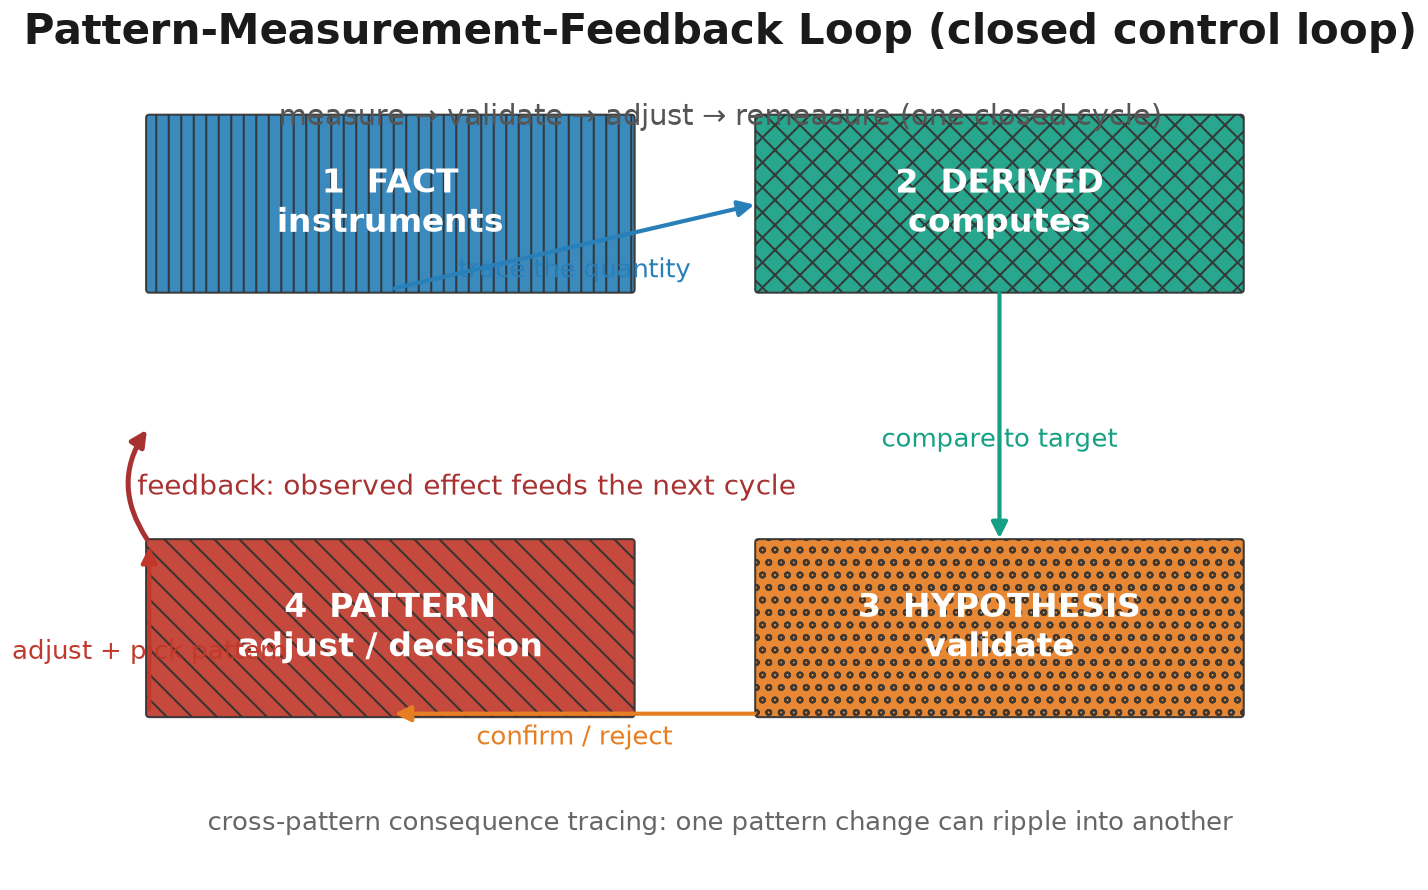
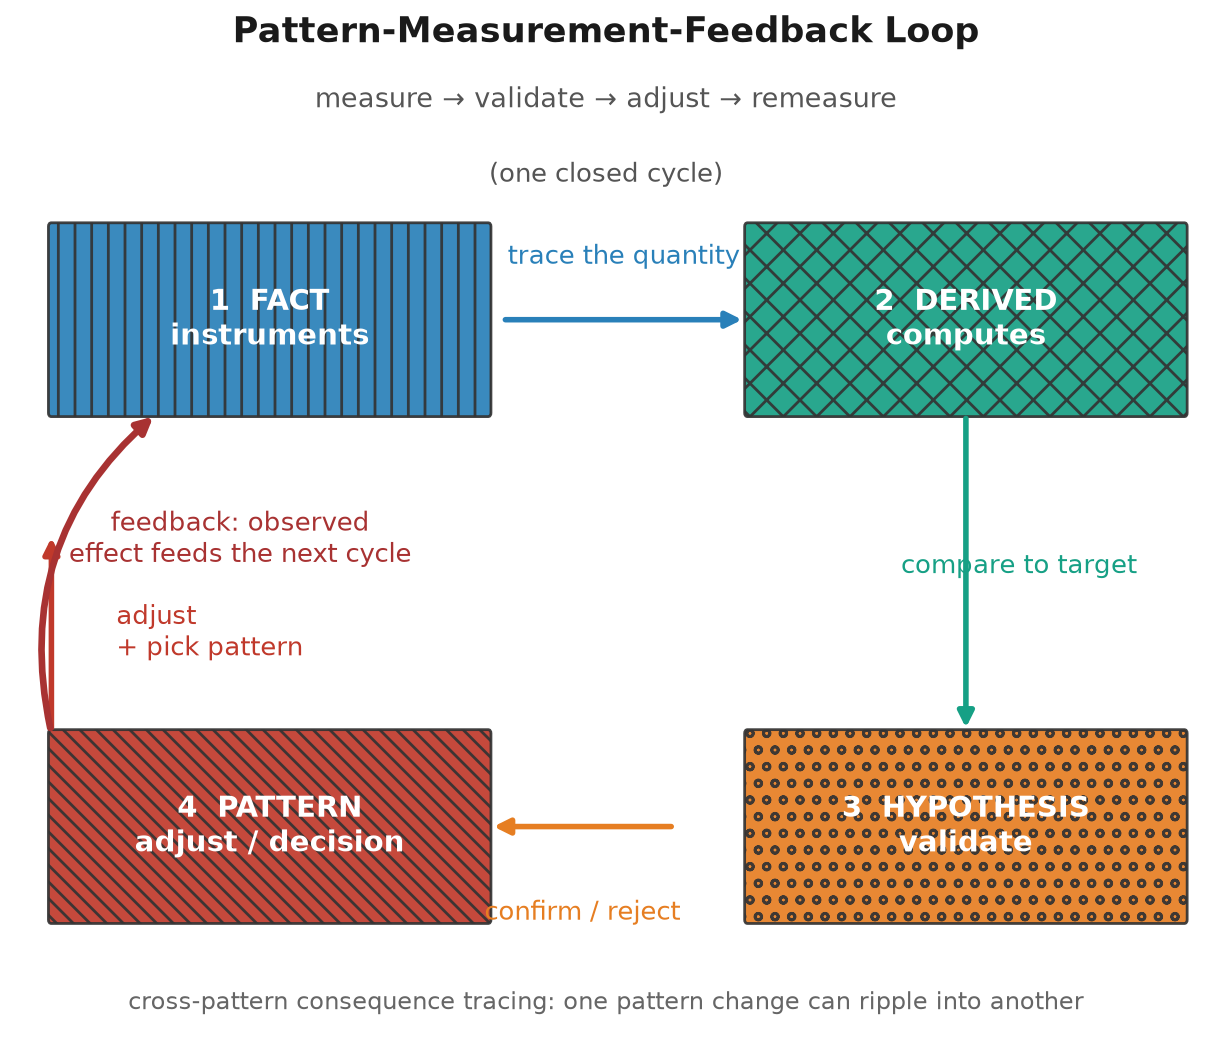
Rebuild Fig 26.2 feedback loop: top note above title, all 4 connector labels clear of boxes, feedback arc terminates at stage 1

diff --git a/render/fig_ch26_feedback.py b/render/fig_ch26_feedback.py
@@ -4,55 +4,60 @@ import matplotlib.pyplot as plt
 from matplotlib.patches import FancyBboxPatch, FancyArrowPatch
 
 # ---- fig-26-2601: The Pattern-Measurement-Feedback Loop (closed control loop) ----
-# A real closed loop, not a row of disconnected boxes:
-#   FACT instruments -> DERIVED computes -> HYPOTHESIS validates -> pattern adjusts,
-#   with a feedback arc back to the beginning and cross-pattern consequence tracing.
-fig, ax = plt.subplots(figsize=(9, 6))
-ax.set_xlim(0, 20); ax.set_ylim(0, 12); ax.axis('off')
+# A real closed loop, not a row of disconnected boxes.  Authored narrow
+# (6.1in) with the cycle note ABOVE the title, generous spacing between rows,
+# and connector labels placed clear of the boxes.
+fig, ax = plt.subplots(figsize=(6.2, 5.4))
+ax.set_xlim(0, 20); ax.set_ylim(0, 13); ax.axis('off')
 
-ax.set_title('Pattern-Measurement-Feedback Loop (closed control loop)',
-             fontsize=13, fontweight='bold', ha='center', color='#1a1a1a')
-ax.text(10, 11.0, 'measure → validate → adjust → remeasure (one closed cycle)',
-        fontsize=8.8, ha='center', color='#555')
+ax.text(10, 12.5, 'measure \u2192 validate \u2192 adjust \u2192 remeasure', 
+        fontsize=8.5, ha='center', color='#555')
+ax.set_title('Pattern-Measurement-Feedback Loop',
+             fontsize=11, fontweight='bold', ha='center', color='#1a1a1a', pad=10)
+ax.text(10, 11.5, '(one closed cycle)', fontsize=8, ha='center', color='#555')
 
-# Four stages laid out clockwise: Facts (top-left), Derived (top-right),
-# Hypothesis (bottom-right), Adjust (bottom-left).
+# Four stages laid out clockwise with clear gaps: Facts (top-left), Derived
+# (top-right), Hypothesis (bottom-right), Adjust (bottom-left).
 stages = [
-    ('1  FACT\ninstruments', '#2980b9', '||', 1.0, 8.6),   # top-left
-    ('2  DERIVED\ncomputes', '#16a085', 'xx', 10.6, 8.6),  # top-right
-    ('3  HYPOTHESIS\nvalidate', '#e67e22', 'oo', 10.6, 2.4), # bottom-right
-    ('4  PATTERN\nadjust / decision', '#c0392b', '\\\\', 1.0, 2.4), # bottom-left
+    ('1  FACT\ninstruments', '#2980b9', '||', 0.6, 8.4),   # top-left
+    ('2  DERIVED\ncomputes', '#16a085', 'xx', 12.4, 8.4), # top-right
+    ('3  HYPOTHESIS\nvalidate', '#e67e22', 'oo', 12.4, 1.6), # bottom-right
+    ('4  PATTERN\nadjust / decision', '#c0392b', '\\\\\\\\', 0.6, 1.6), # bottom-left
 ]
 for label, col, hatch, x, y in stages:
-    ax.add_patch(FancyBboxPatch((x, y), 7.6, 2.5, boxstyle='round,pad=0.05',
+    ax.add_patch(FancyBboxPatch((x, y), 7.4, 2.5, boxstyle='round,pad=0.05',
                                 fc=col, ec='#333', lw=1.0, hatch=hatch, alpha=0.92))
-    ax.text(x+3.8, y+1.25, label, ha='center', va='center', color='white',
-            fontsize=10, fontweight='bold')
+    ax.text(x+3.7, y+1.25, label, ha='center', va='center', color='white',
+            fontsize=9, fontweight='bold')
 
-# Clockwise connectors (each labelled with the transfer)
+# Clockwise connectors (each labelled with the transfer, placed in the gap)
 conns = [
-    ((4.8, 8.6), (10.6, 9.85), 'trace the quantity', '#2980b9'),
-    ((14.4, 8.6), (14.4, 4.9), 'compare to target', '#16a085'),
-    ((10.6, 2.4), (4.8, 2.4), 'confirm / reject', '#e67e22'),
-    ((1.0, 2.4), (1.0, 4.9), 'adjust + pick pattern', '#c0392b'),
+    ((8.2, 9.65), (12.4, 9.65), 'trace the quantity', '#2980b9', (10.3, 10.4)),
+    ((16.1, 8.4), (16.1, 4.1), 'compare to target', '#16a085', (17.0, 6.25)),
+    ((11.2, 2.85), (8.0, 2.85), 'confirm / reject', '#e67e22', (9.6, 1.6)),
+    ((0.6, 4.1), (0.6, 6.8), 'adjust\n+ pick pattern', '#c0392b', None),
 ]
-for (x1, y1), (x2, y2), lab, col in conns:
+for (x1, y1), (x2, y2), lab, col, labpos in conns:
     ax.annotate('', xy=(x2, y2), xytext=(x1, y1),
-                arrowprops=dict(arrowstyle='-|>', lw=2.0, color=col))
-    ax.text((x1+x2)/2, (y1+y2)/2 - 0.45, lab, fontsize=8, ha='center', color=col)
+                arrowprops=dict(arrowstyle='-|>', lw=2.0, color=col, connectionstyle='arc3,rad=0.0'))
+    if labpos:
+        ax.text(labpos[0], labpos[1], lab, fontsize=8, ha='center', color=col)
+    else:
+        ax.text(1.7, (y1+y2)/2, lab, fontsize=8, ha='left', va='center', color=col)
 
-# Feedback arc: 'Adjust' back to 'Facts' (the loop closes) along the left side.
-ax.annotate('', xy=(1.0, 6.6), xytext=(1.0, 4.9),
+# Feedback arc: 'Adjust' back to 'Facts' along the left side, terminating at box 1
+ax.annotate('', xy=(2.4, 8.4), xytext=(0.6, 4.1),
             arrowprops=dict(arrowstyle='-|>', lw=2.4, color='#a83232',
-                            connectionstyle='arc3,rad=-0.35'))
-ax.text(6.0, 5.6, 'feedback: observed effect feeds the next cycle',
-        fontsize=8.5, ha='center', color='#a83232')
+                            connectionstyle='arc3,rad=-0.30'))
+ax.text(3.8, 6.4, 'feedback: observed\neffect feeds the next cycle',
+        fontsize=8, ha='center', color='#a83232')
 
-# Cross-pattern consequence tracing (a light note at the bottom)
-ax.text(10, 0.7, 'cross-pattern consequence tracing: one pattern change can ripple into another',
-        fontsize=8, ha='center', color='#666')
+# Cross-pattern consequence tracing note at the bottom
+ax.text(10, 0.4, 'cross-pattern consequence tracing: one pattern change can ripple into another',
+        fontsize=7.5, ha='center', color='#666')
 
 plt.tight_layout()
-plt.savefig('design/manuscript/chapter-26/figures/fig-26-2601.png', dpi=150)
+plt.savefig('design/manuscript/chapter-26/figures/fig-26-2601.png',
+            dpi=200, bbox_inches='tight', pad_inches=0.08)
 plt.close()
 print('wrote fig-26-2601 (closed loop)')
